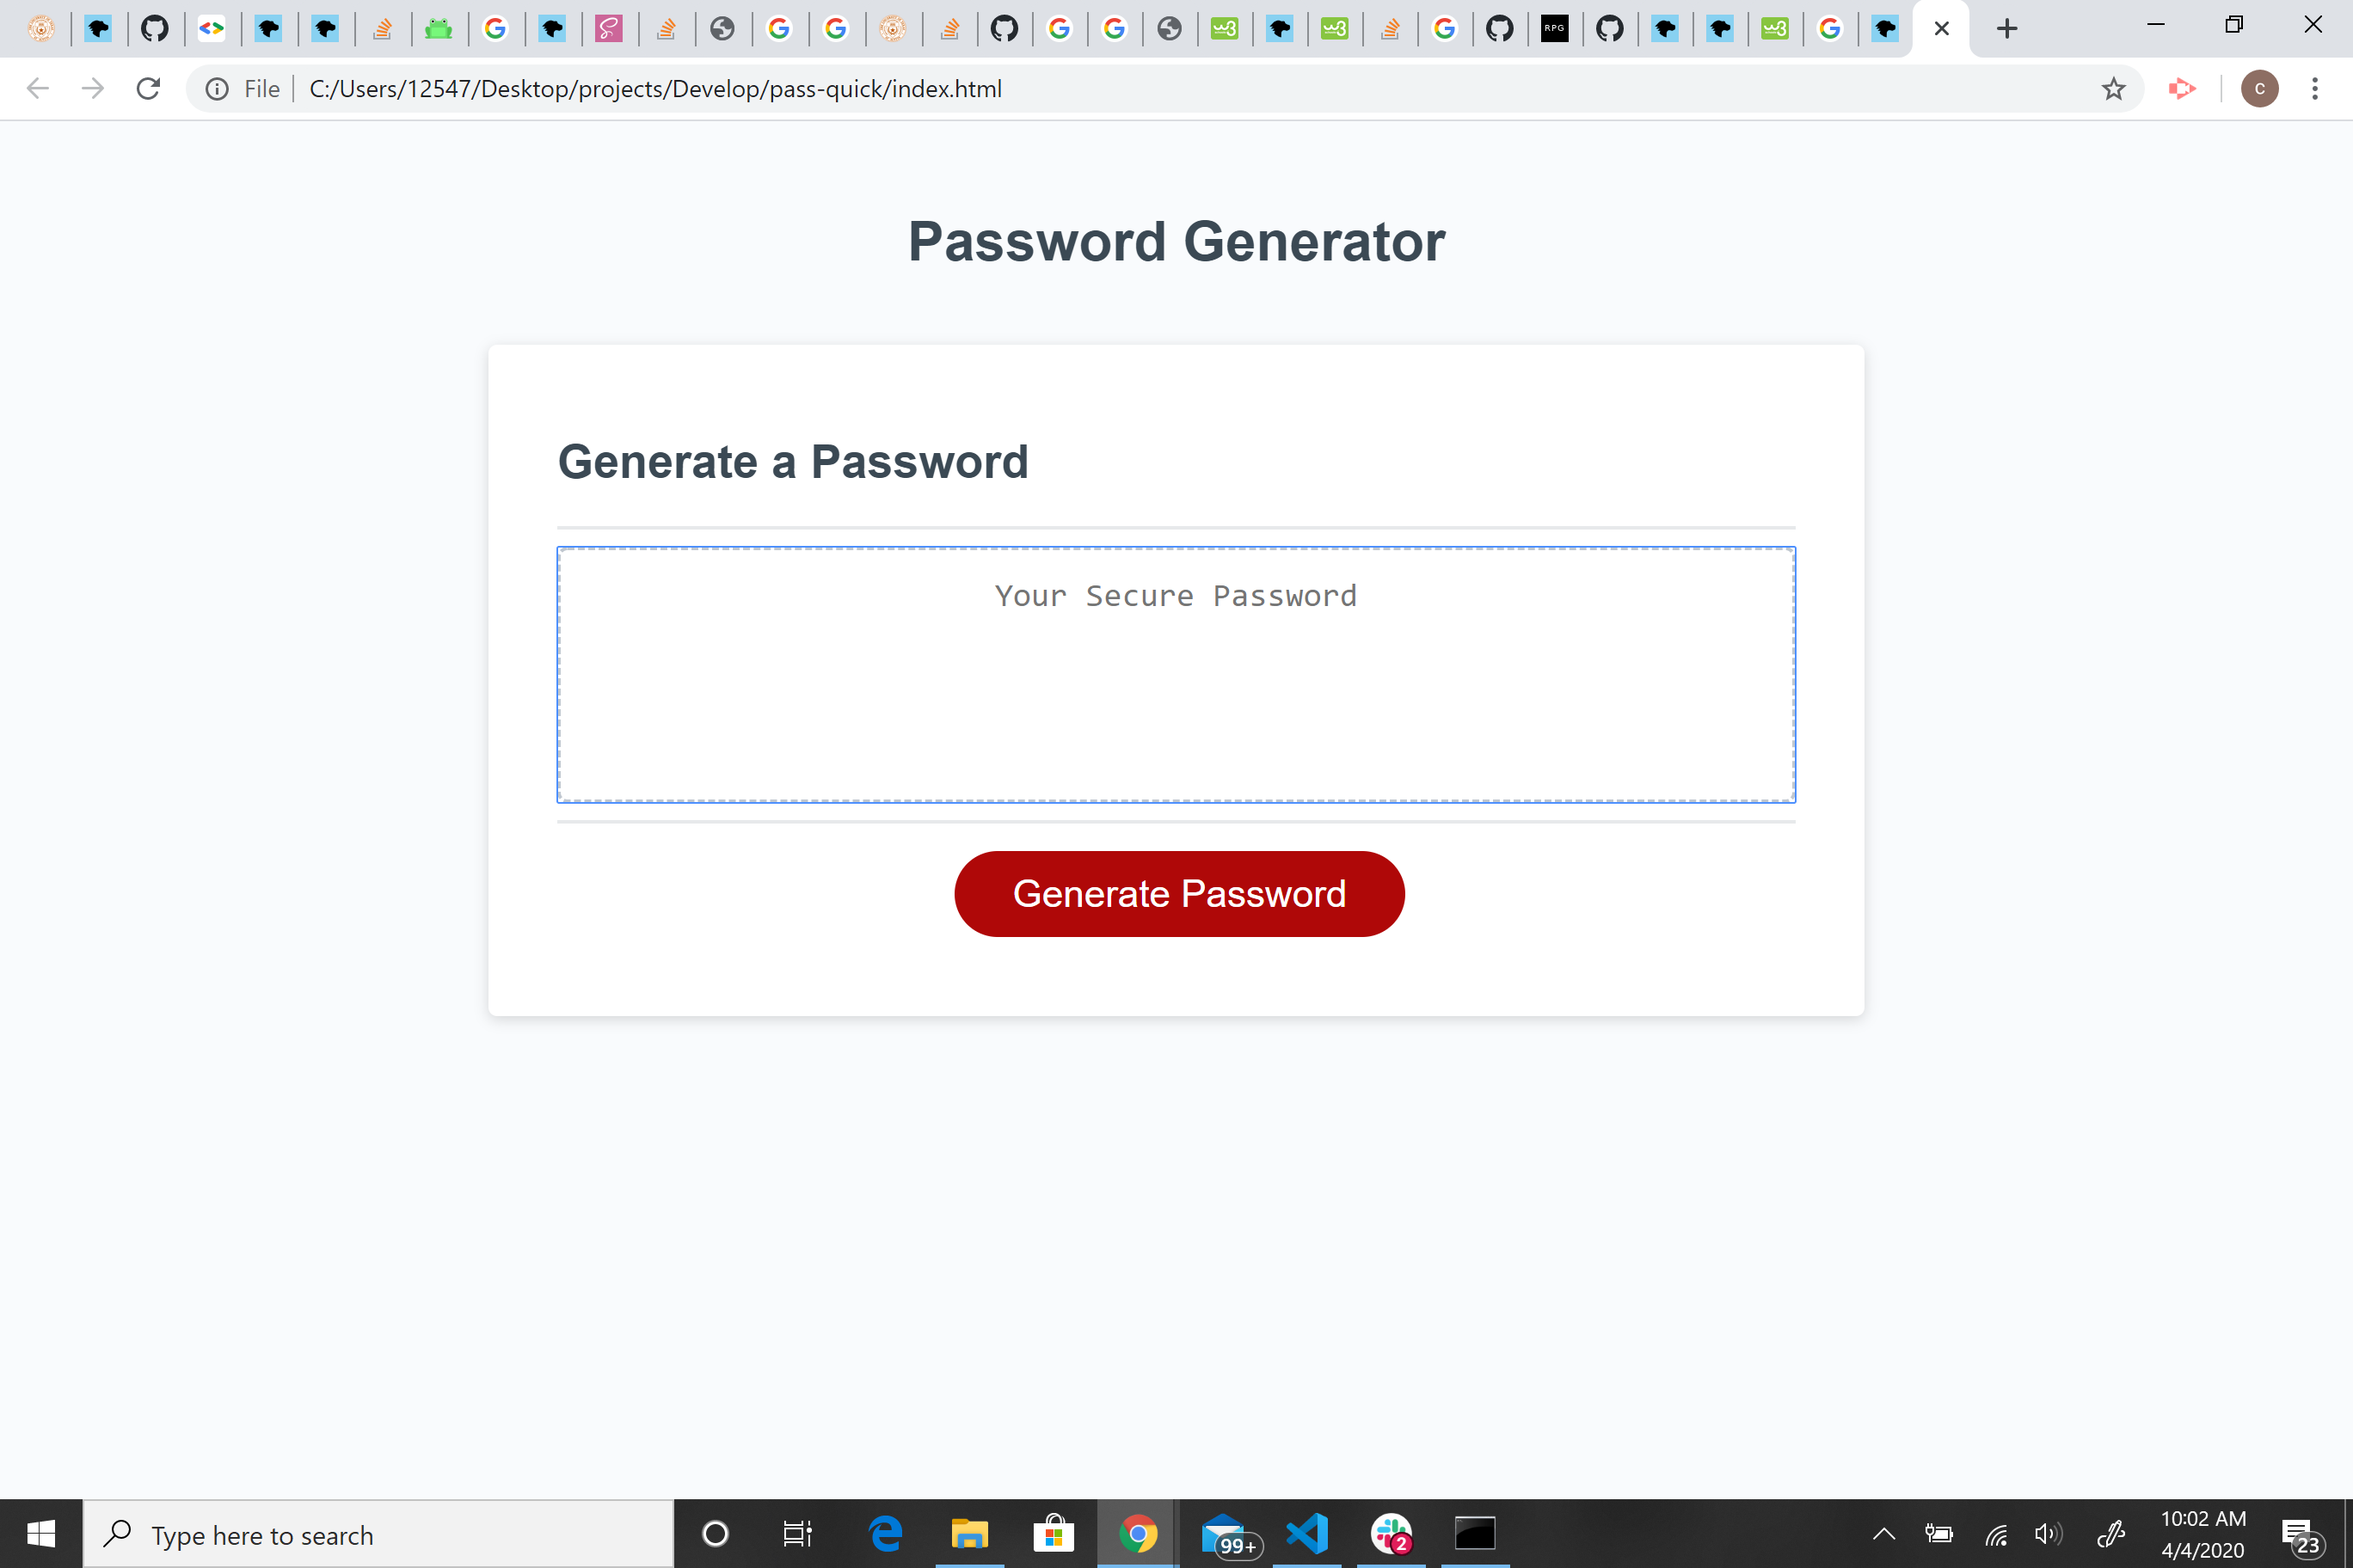
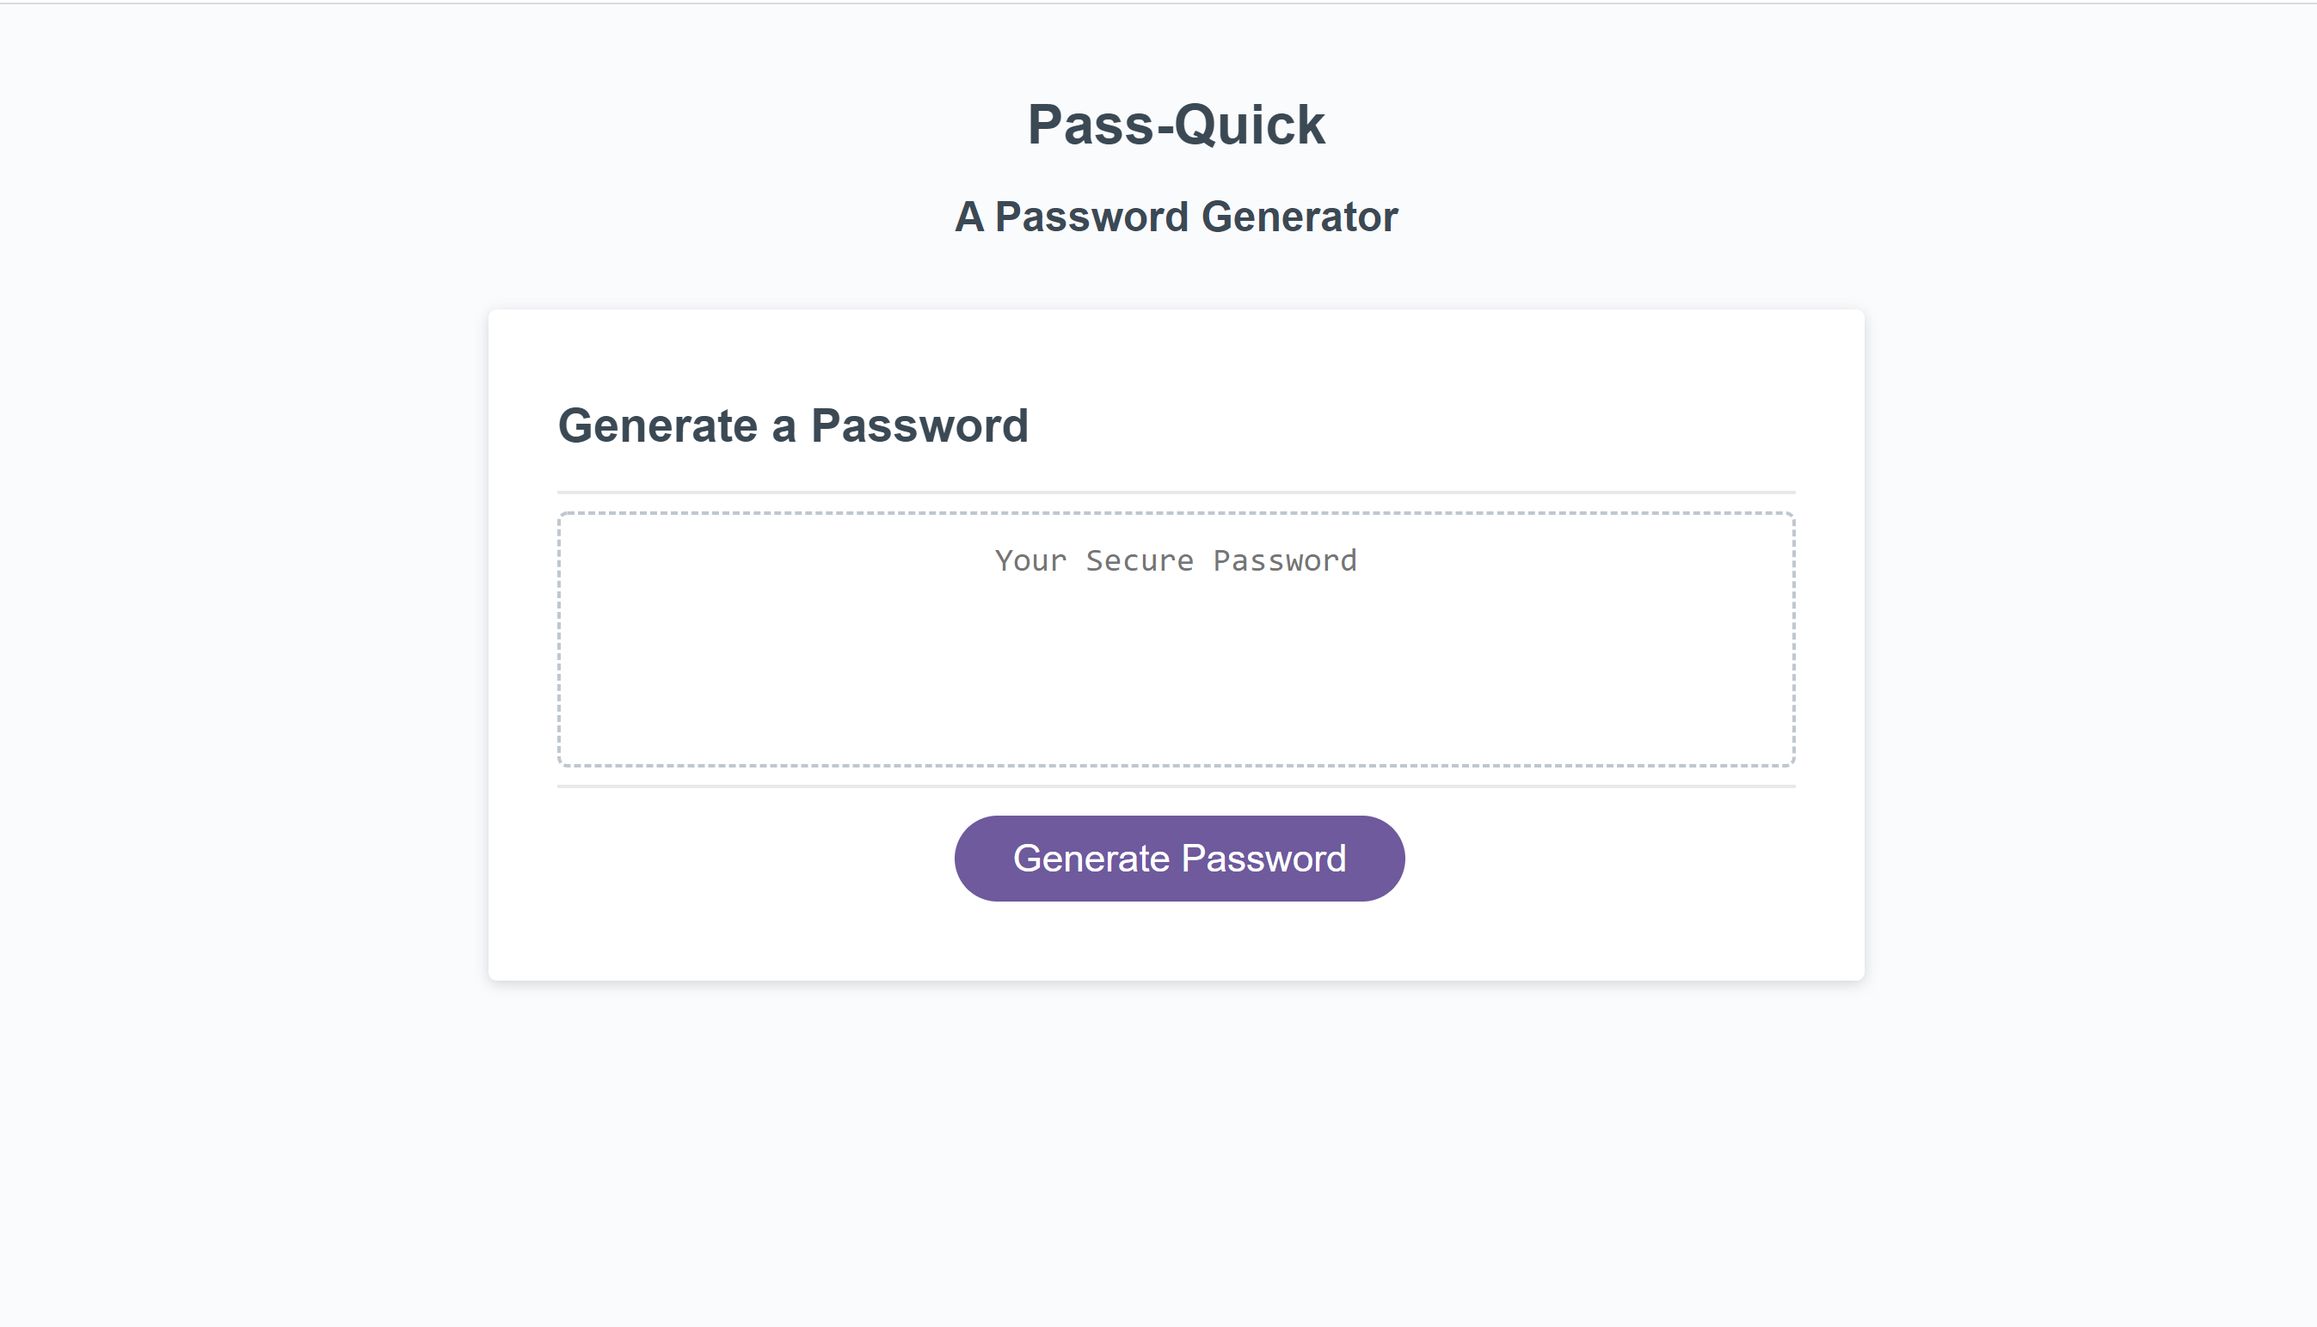
edit screenshot and finishing styles

diff --git a/index.html b/index.html
@@ -10,7 +10,8 @@
   <body>
     <div class="wrapper">
       <header>
-        <h1>Password Generator</h1>
+        <h1>Pass-Quick</h1>
+        <h2>A Password Generator</h2>
       </header>
       <div class="card">
         <div class="card-header">

diff --git a/style.css b/style.css
@@ -74,7 +74,7 @@ header {
 
 .btn {
   border: none;
-  background-color: hsl(360, 91%, 36%);
+  background-color: rgb(110, 90, 156);
   border-radius: 25px;
   box-shadow: rgba(0, 0, 0, 0.1) 0px 1px 6px 0px rgba(0, 0, 0, 0.2) 0px 1px 1px
     0px;
